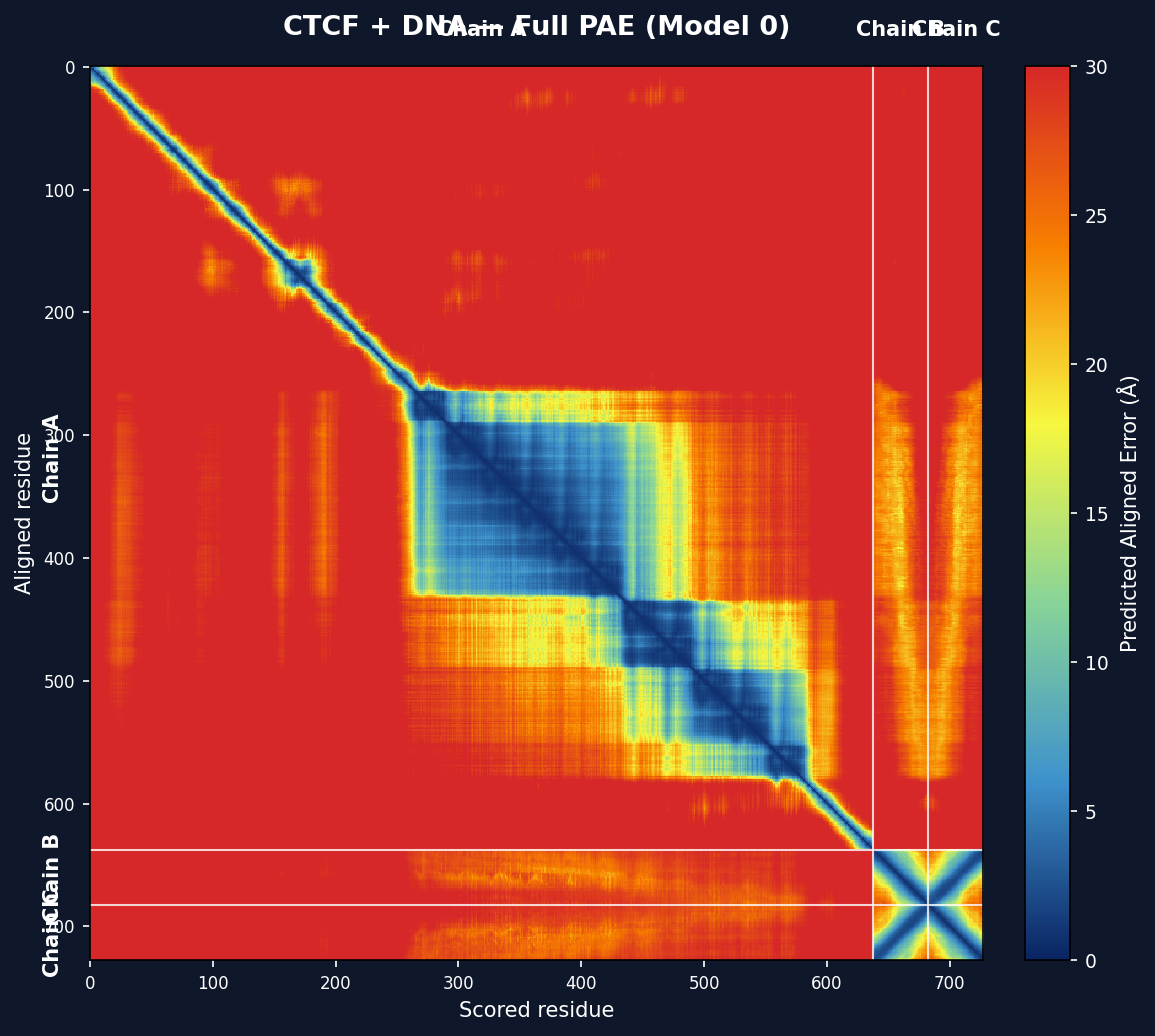
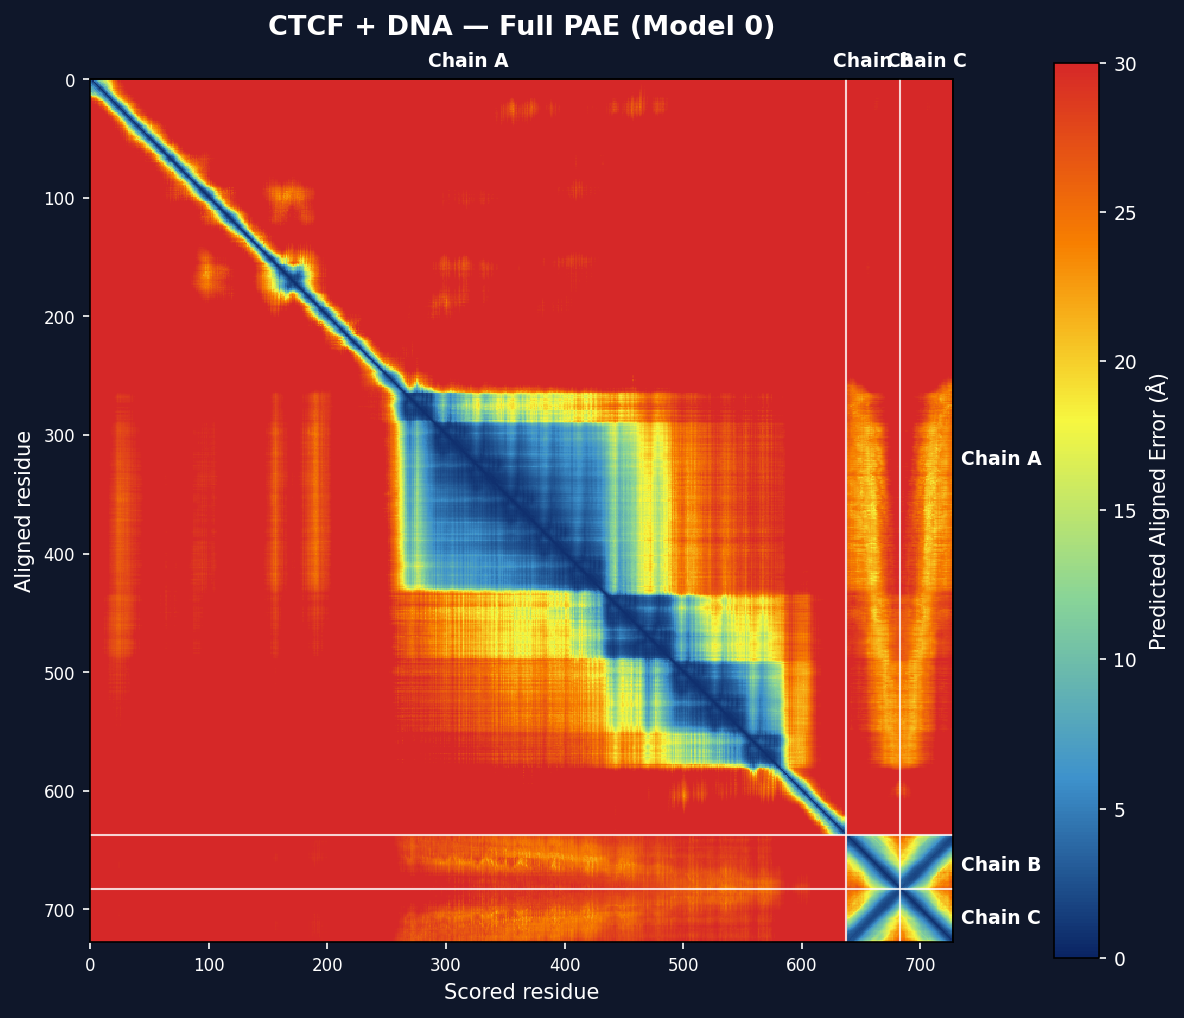
Fix PAE heatmap: move chain labels outside plot area
Chain labels were overlapping the heatmap on large matrices.
Now uses secondary axis tick labels (top/right) that stay outside the image.

Changed region(s): [[0.0, 0.0, 0.9974, 1.0], [0.374, 0.2436, 0.4364, 0.3045], [0.1558, 0.9136, 0.2182, 0.9745]]

diff --git a/af3_report.py b/af3_report.py
@@ -345,27 +345,39 @@ def find_chain_boundaries(token_chain_ids):
 def pae_heatmap_to_base64(pae, token_chain_ids, title):
     """Generate a full PAE heatmap and return as base64 PNG string."""
     boundaries = find_chain_boundaries(token_chain_ids)
-    n = len(pae)
 
     fig, ax = plt.subplots(1, 1, figsize=(8, 7))
     im = ax.imshow(pae, cmap=PAE_CMAP, vmin=0, vmax=30, aspect="equal",
                    interpolation="nearest")
 
+    # Chain boundary lines
     for chain, (start, end) in boundaries.items():
         if start > 0:
             ax.axhline(y=start - 0.5, color="white", linewidth=1, alpha=0.8)
             ax.axvline(x=start - 0.5, color="white", linewidth=1, alpha=0.8)
-        mid = (start + end) / 2
-        ax.text(mid, -n * 0.03, f"Chain {chain}", ha="center", va="bottom",
-                fontsize=10, fontweight="bold", color="white")
-        ax.text(-n * 0.03, mid, f"Chain {chain}", ha="right", va="center",
-                fontsize=10, fontweight="bold", color="white", rotation=90)
 
-    cbar = plt.colorbar(im, ax=ax, fraction=0.046, pad=0.04,
+    # Use secondary tick labels for chain names (outside the plot area)
+    chain_mids = []
+    chain_labels = []
+    for chain, (start, end) in boundaries.items():
+        chain_mids.append((start + end) / 2)
+        chain_labels.append(f"Chain {chain}")
+
+    ax2_x = ax.secondary_xaxis("top")
+    ax2_x.set_xticks(chain_mids)
+    ax2_x.set_xticklabels(chain_labels, fontsize=9, fontweight="bold", color="white")
+    ax2_x.tick_params(length=0, pad=4, colors="white")
+
+    ax2_y = ax.secondary_yaxis("right")
+    ax2_y.set_yticks(chain_mids)
+    ax2_y.set_yticklabels(chain_labels, fontsize=9, fontweight="bold", color="white")
+    ax2_y.tick_params(length=0, pad=4, colors="white")
+
+    cbar = plt.colorbar(im, ax=ax, fraction=0.046, pad=0.1,
                         label="Predicted Aligned Error (Å)")
     cbar.ax.tick_params(labelsize=9)
 
-    ax.set_title(title, fontsize=13, fontweight="bold", pad=15)
+    ax.set_title(title, fontsize=13, fontweight="bold", pad=8)
     ax.set_xlabel("Scored residue", fontsize=10)
     ax.set_ylabel("Aligned residue", fontsize=10)
     ax.tick_params(labelsize=8)
